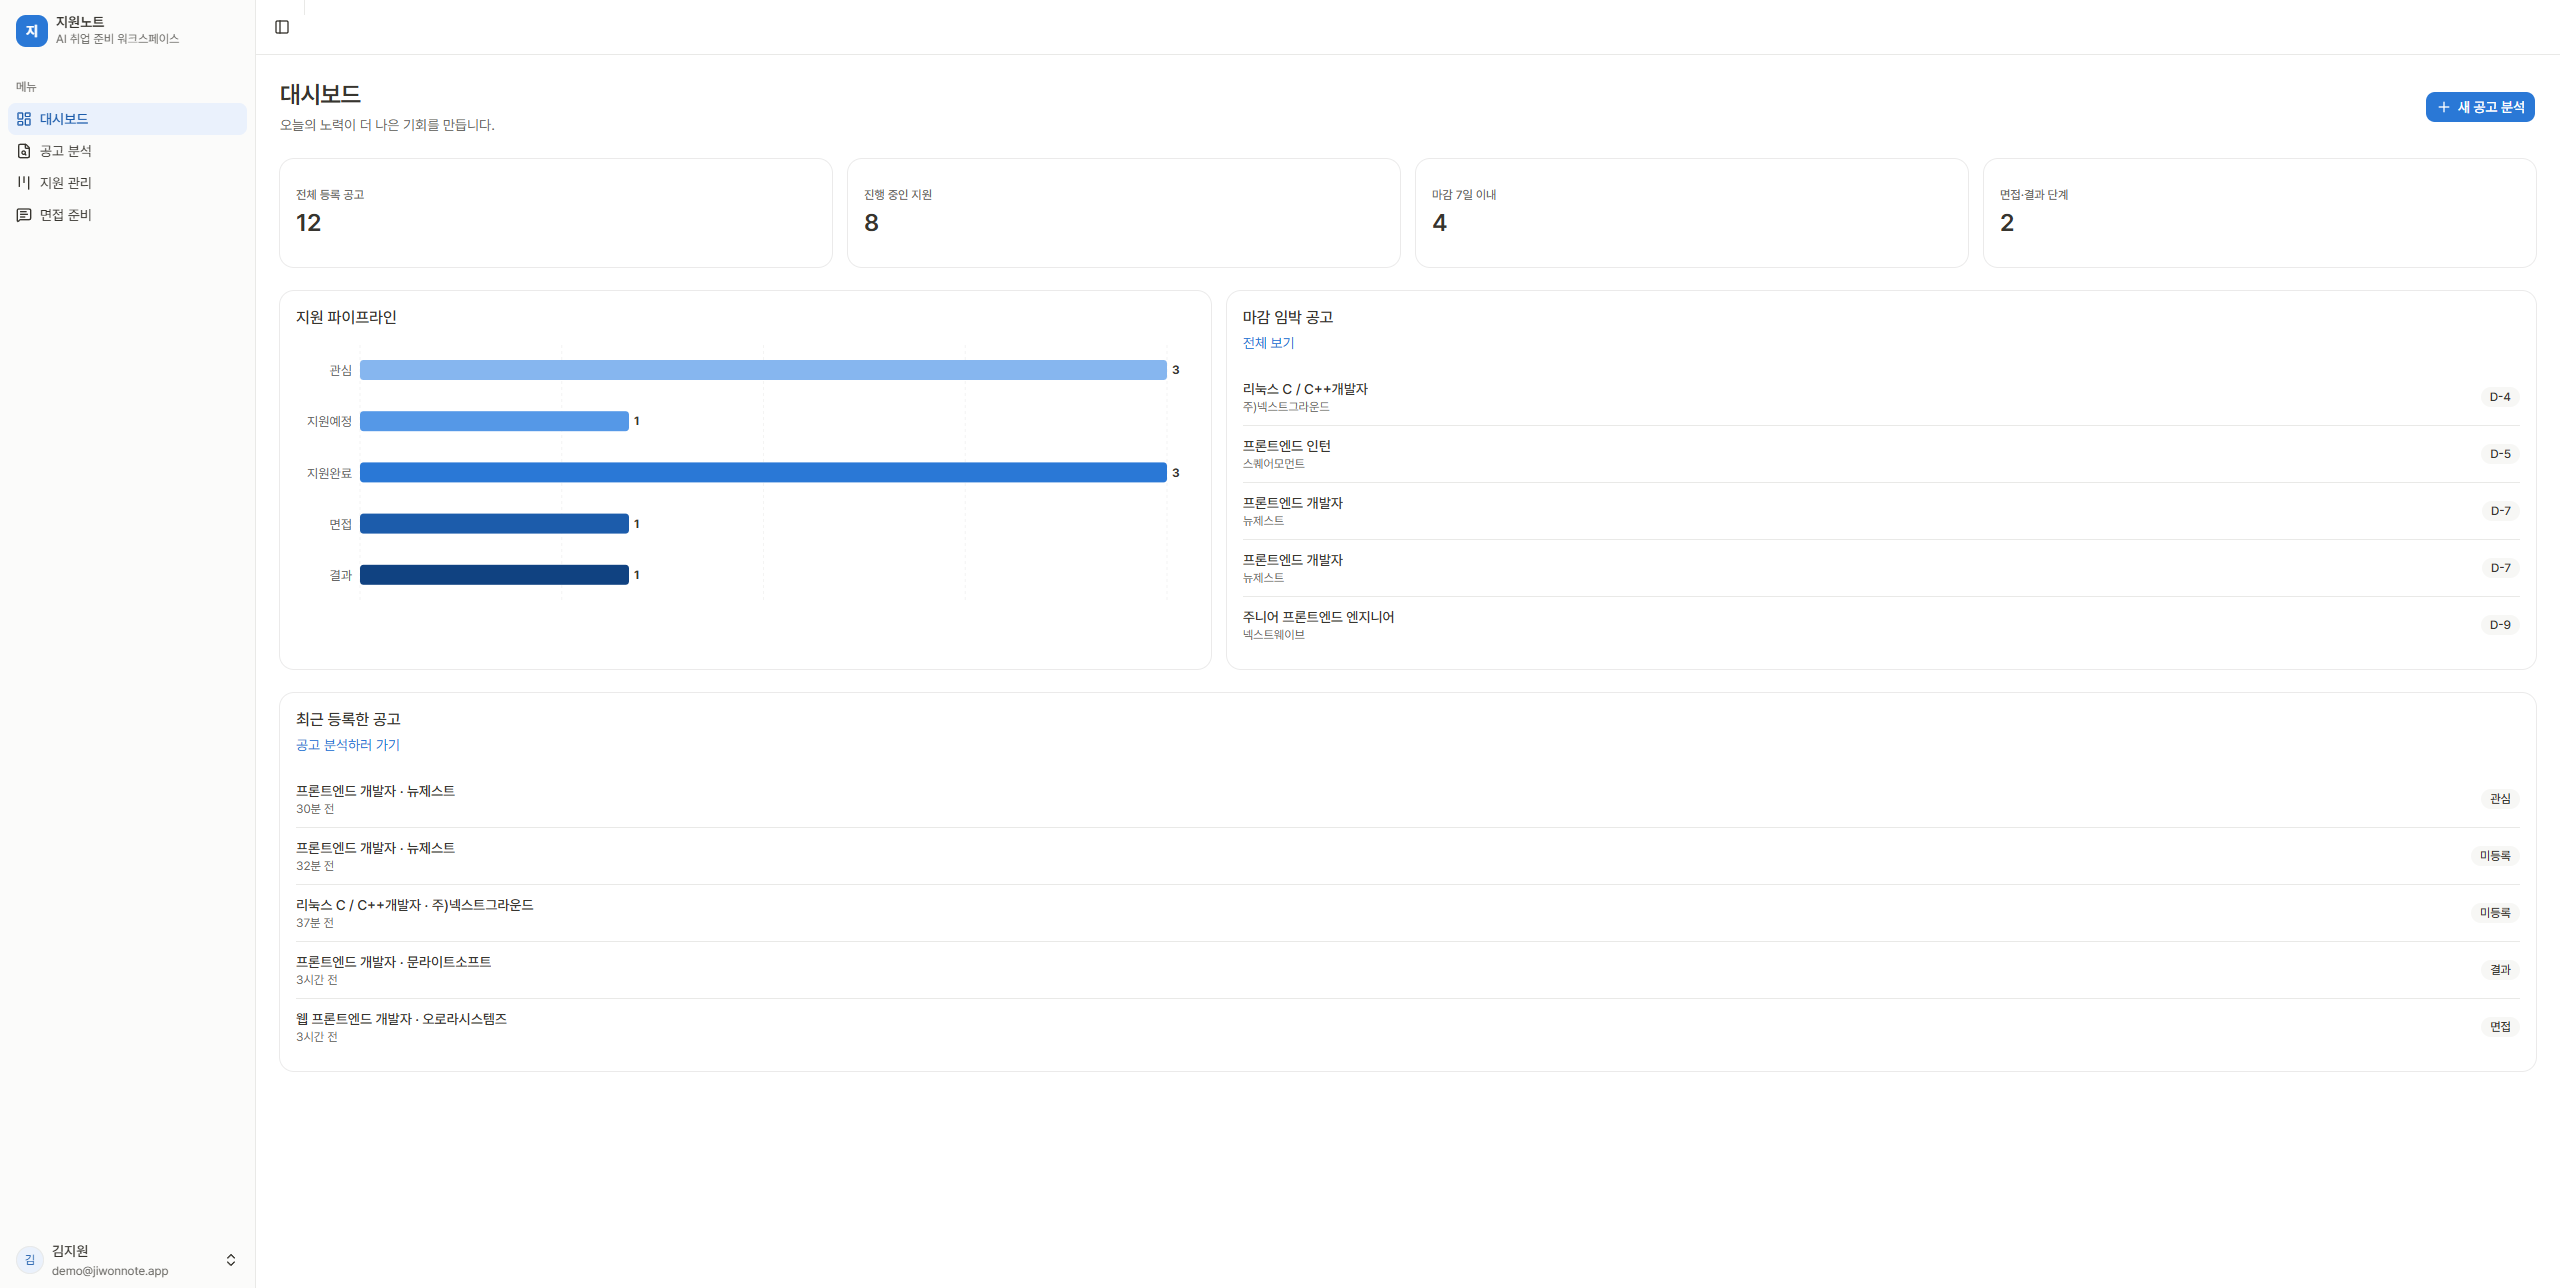
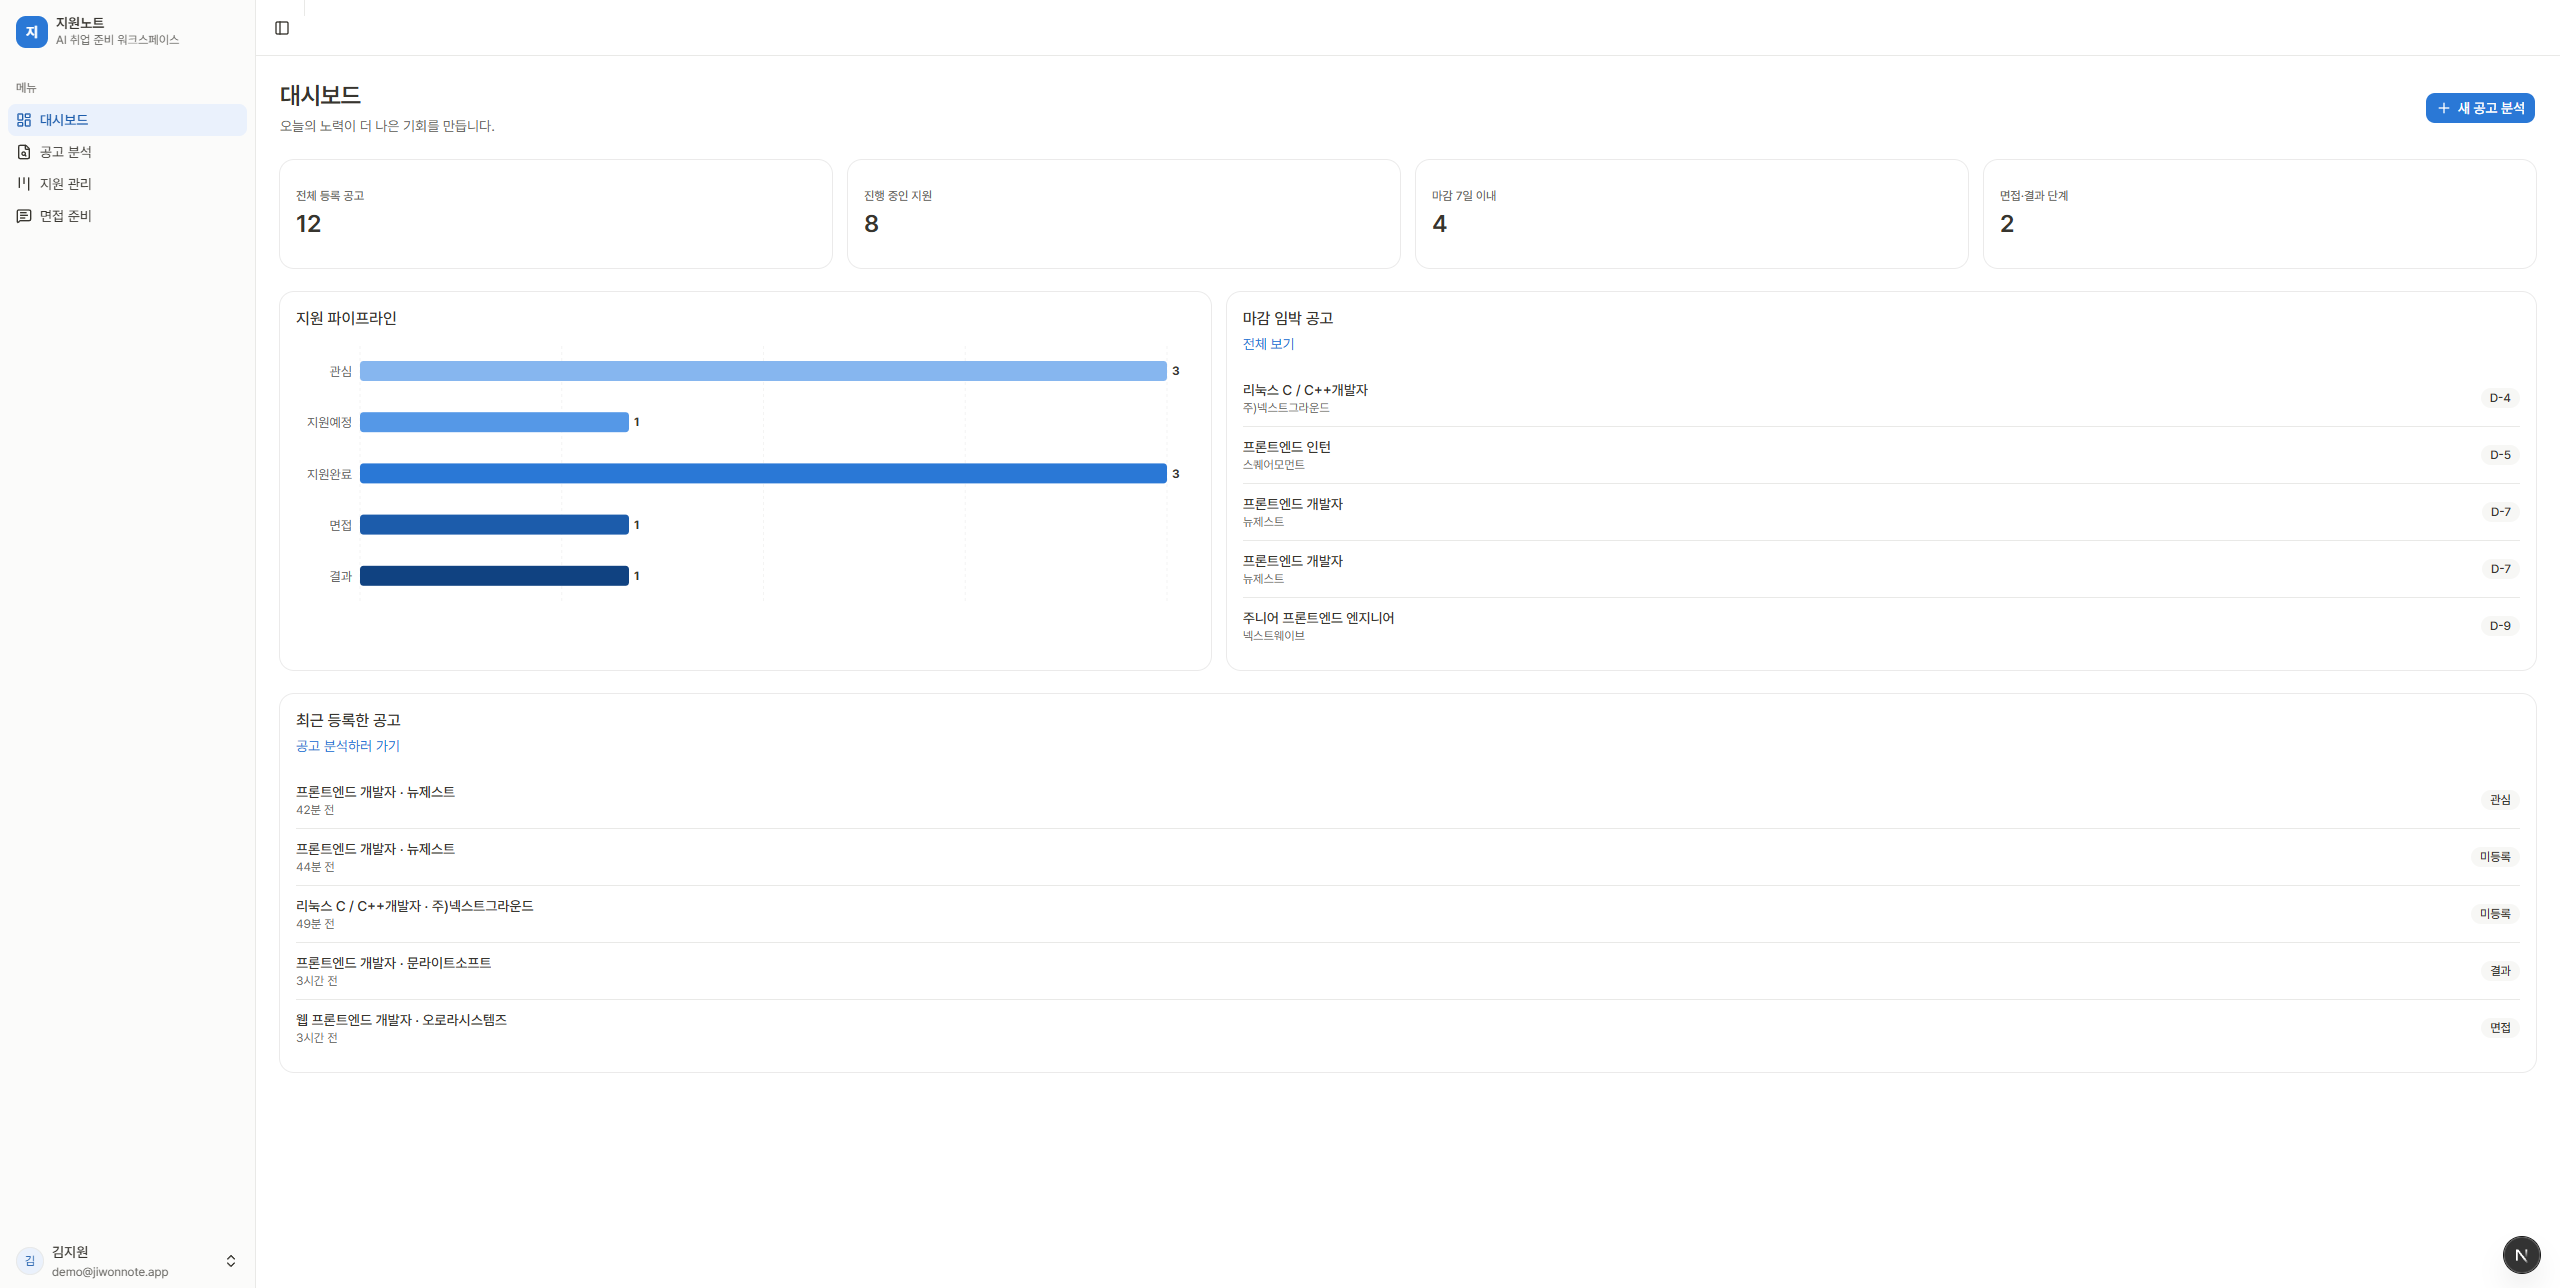
이미지 수정

diff --git a/index.html b/index.html
@@ -280,7 +280,7 @@
           </li>
           <li class="project" data-type="front-end">
             <a href="https://github.com/YunHanKIM/Java-Service-Tree-Framework-Frontend-Web" target="_blank">
-              <img class="project__img" src="images/projects/project5.png" alt="지원 노트" />
+              <img class="project__img" src="images/projects/project5.PNG" alt="지원 노트" />
               <div class="project__metadata">
                 <h3 class="project__title">지원 노트</h3>
                 <p>사이드 프로젝트</p>
